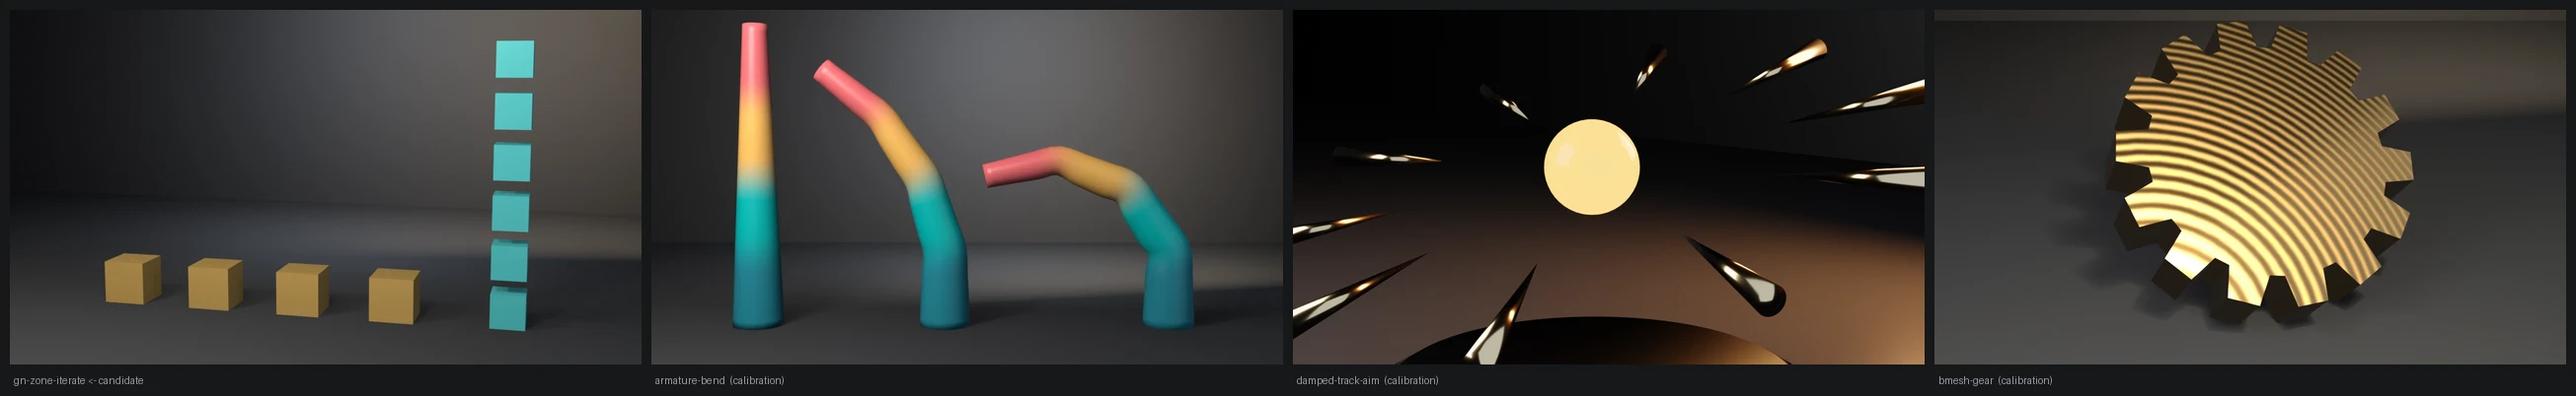
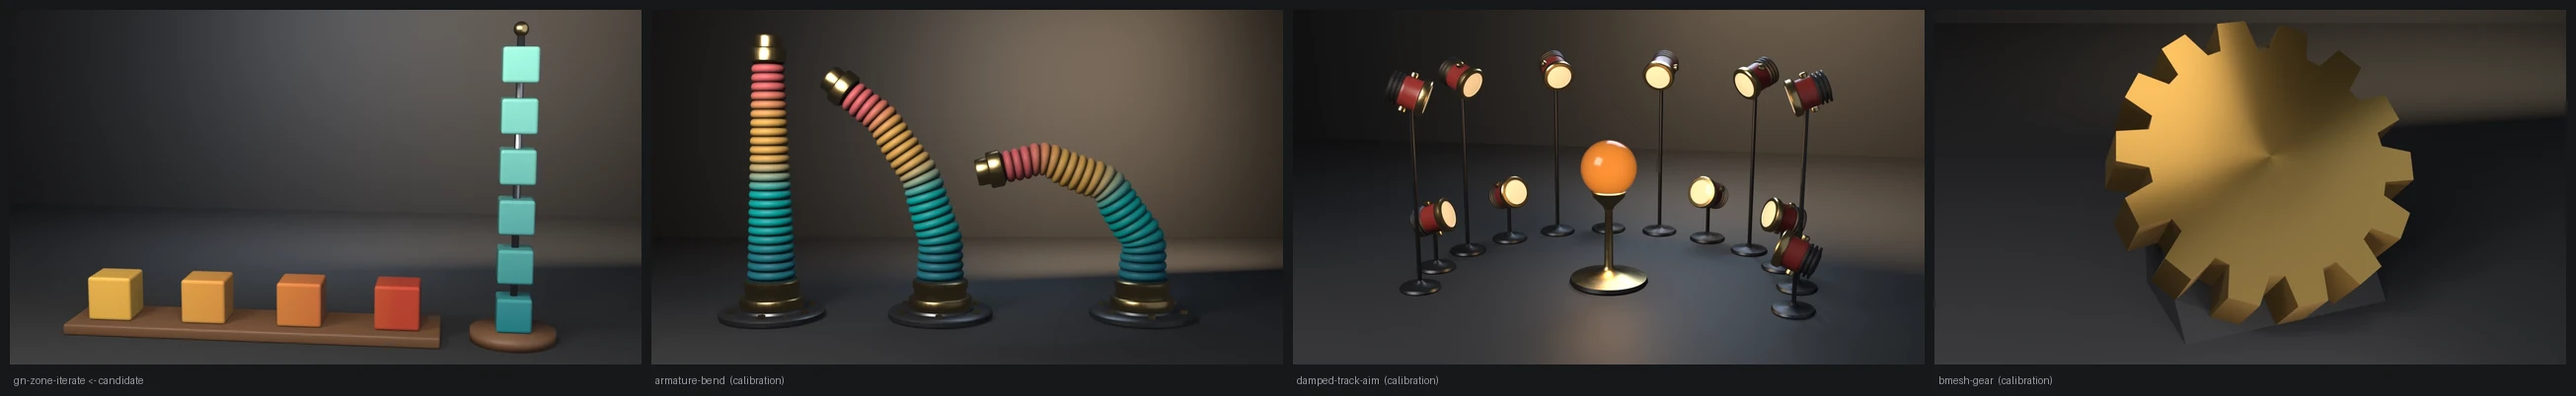
fix(examples): redesign gn-zone-iterate as graded blocks on a plinth and a spindle
The still showed flat brass and cyan cubes hanging in a dark room: four in a
row and six floating in a stack. All presentation now runs after check()
passes on the raw evaluated zones:
- Each zone's blocks are graded along the axis it iterates on, using Object
  space: amber to red along X for Repeat, teal to mint along Z for For Each.
  The colour steps count the iterations.
- A render-only Bevel after the GN modifier chamfers the cubes.
- The Repeat row sits on a walnut plinth. The For Each tower is threaded on a
  steel spindle with a brass finial over a round walnut base, so the 0.18 m
  gaps read as spacing.
- The camera is more frontal and tighter.
The GN trees, the evaluated counts and the checks are unchanged.

Evidence (live runs, local):
- E:\Blender-Developer-Tools\.scratch\blender-5.2.1-windows-x64\blender.exe
  (Blender 5.2.1 LTS): check exit 0, repeat 32/24 and foreach 48/36 verts/
  faces, x_centers [0, 1.2, 2.4, 3.6], z_centers [0.21 .. 3.21],
  pairing=ok. --no-offset exits 4 (X-centers [32,0,0,0]). --foreach-main
  exits 5 (evaluated 6/0 against 48/36).
- E:\Blender-Developer-Tools\.scratch\blender-4.5.11-windows-x64\blender.exe
  (Blender 4.5.11 LTS): check and --output both exit 0 with the same numbers.
- Framing: fill x=0.716 y=0.806, margins l=0.084 r=0.134 b=0.033 t=0.033.
- Contact sheet: candidate luma 0.263 / stage 0.227 / warmth +0.243 /
  sat 0.148, against armature-bend 0.243/0.192/-0.144/0.237, damped-track-aim
[…]

diff --git a/examples/gn-zone-iterate/gn_zone_iterate.py b/examples/gn-zone-iterate/gn_zone_iterate.py
@@ -356,26 +356,105 @@ def render_still(rpt, fee, path, engine):
     # Rim from behind so the cube silhouettes separate from the dark wall.
     light("Rim", (-1.0, 4.5, 4.5), 260.0, 4.0, (0.70, 0.82, 1.0), (-50, 0, 180))
 
-    # Presentation only: the check never reads materials. 0.85 metallic in a
-    # near-black world reflected near-black, and the brass read as mustard
-    # card. Less metal and a warmer, brighter base let the key shape it.
-    for ob, rough, metal in ((rpt, 0.42, 0.55), (fee, 0.38, 0.10)):
+    # Presentation only — everything below runs after check() has passed on
+    # the raw evaluated zones. Each zone's blocks are graded along the axis the
+    # zone iterates on (Object-space X for Repeat, Z for For Each), so the
+    # colour steps count the iterations; a small render-only bevel after the
+    # GN modifier turns the cubes into machined blocks.
+    grades = {
+        rpt: ("X", REPEAT_N * REPEAT_STEP,
+              ((0.95, 0.55, 0.10), (0.62, 0.07, 0.04)), 0.30, 0.0),
+        fee: ("Z", (FOREACH_P - 1) * FOREACH_STEP + FOREACH_SIZE,
+              ((0.02, 0.30, 0.36), (0.30, 0.85, 0.72)), 0.28, 0.0),
+    }
+    for ob, (axis, span, (c0, c1), rough, metal) in grades.items():
         for mat in _node_materials(ob):
-            bsdf = mat.node_tree.nodes.get("Principled BSDF")
-            if bsdf is not None:
-                bsdf.inputs["Metallic"].default_value = metal
-                bsdf.inputs["Roughness"].default_value = rough
+            nt = mat.node_tree
+            bsdf = nt.nodes.get("Principled BSDF")
+            bsdf.inputs["Metallic"].default_value = metal
+            bsdf.inputs["Roughness"].default_value = rough
+            if "Coat Weight" in bsdf.inputs:
+                bsdf.inputs["Coat Weight"].default_value = 0.5
+            coord = nt.nodes.new("ShaderNodeTexCoord")
+            sep = nt.nodes.new("ShaderNodeSeparateXYZ")
+            nt.links.new(coord.outputs["Object"], sep.inputs["Vector"])
+            norm = nt.nodes.new("ShaderNodeMapRange")
+            norm.inputs["From Min"].default_value = 0.0
+            norm.inputs["From Max"].default_value = span
+            nt.links.new(sep.outputs[axis], norm.inputs["Value"])
+            ramp = nt.nodes.new("ShaderNodeValToRGB")
+            ramp.color_ramp.elements[0].color = (*c0, 1.0)
+            ramp.color_ramp.elements[1].color = (*c1, 1.0)
+            nt.links.new(norm.outputs["Result"], ramp.inputs["Fac"])
+            nt.links.new(ramp.outputs["Color"], bsdf.inputs["Base Color"])
+        bev = ob.modifiers.new("Chamfer", "BEVEL")
+        bev.width = 0.035
+        bev.segments = 3
+        bev.limit_method = "NONE"
+
+    walnut = principled("Walnut", (0.19, 0.09, 0.045, 1.0), 0.0, 0.5)
+    steel = principled("Steel", (0.55, 0.56, 0.58, 1.0), 1.0, 0.3)
+    brass = principled("Finial", (0.88, 0.62, 0.26, 1.0), 1.0, 0.28)
+
+    def solid(name, build, mat, loc):
+        me = bpy.data.meshes.new(name)
+        bm = bmesh.new()
+        try:
+            build(bm)
+            for f in bm.faces:
+                f.smooth = True
+            bm.to_mesh(me)
+        finally:
+            bm.free()
+        me.materials.append(mat)
+        ob = bpy.data.objects.new(name, me)
+        ob.location = loc
+        scene.collection.objects.link(ob)
+        return ob
+
+    def box(sx, sy, sz):
+        def b(bm):
+            bmesh.ops.create_cube(bm, size=1.0)
+            bmesh.ops.scale(bm, vec=(sx, sy, sz), verts=bm.verts)
+            bmesh.ops.bevel(bm, geom=list(bm.edges), offset=0.025, segments=3,
+                            profile=0.5, affect="EDGES", clamp_overlap=True)
+        return b
+
+    def cyl(r, h, segs=48):
+        def b(bm):
+            bmesh.ops.create_cone(bm, cap_ends=True, segments=segs, radius1=r, radius2=r, depth=h)
+        return b
+
+    # Stands: the blocks are lifted onto them (render only, after the check).
+    base_h = 0.14
+    for ob in (rpt, fee):
+        ob.location.z = base_h
+    x0 = rpt.location.x - REPEAT_SIZE / 2 - 0.25
+    x1 = rpt.location.x + REPEAT_N * REPEAT_STEP + REPEAT_SIZE / 2 + 0.25
+    row_base = solid("RowPlinth", box(x1 - x0, 1.0, base_h), walnut,
+                     ((x0 + x1) / 2, 0.0, base_h / 2))
+    tower_top = base_h + (FOREACH_P - 1) * FOREACH_STEP + FOREACH_SIZE
+    tower_base = solid("TowerBase", cyl(0.52, base_h), walnut,
+                       (fee.location.x, 0.0, base_h / 2))
+    # a steel spindle threads the For Each blocks, so the gaps between them
+    # read as spacing on a rod, not blocks floating
+    spindle = solid("Spindle", cyl(0.045, tower_top - base_h + 0.18, 24), steel,
+                    (fee.location.x, 0.0, base_h + (tower_top - base_h + 0.18) / 2))
+    finial = solid("Finial", lambda bm: bmesh.ops.create_uvsphere(
+        bm, u_segments=24, v_segments=12, radius=0.09), brass,
+        (fee.location.x, 0.0, tower_top + 0.2))
+    props = [row_base, tower_base, spindle, finial]
 
     # Centred on the pair and more frontal: from (6.6, -9.3) the repeat row
     # foreshortened into a diagonal and the tower hugged the right edge.
     aim = bpy.data.objects.new("Aim", None)
-    aim.location = (-0.10, 0.0, 1.62)
+    aim.location = (-0.10, 0.0, 1.85)
     aim.hide_render = True
     scene.collection.objects.link(aim)
     cam_data = bpy.data.cameras.new("Cam")
-    cam_data.lens = 50.0
+    cam_data.lens = 56.0
     cam = bpy.data.objects.new("Cam", cam_data)
-    cam.location = (2.7, -10.6, 3.1)
+    cam.location = (1.4, -11.8, 3.6)
     scene.collection.objects.link(cam)
     scene.camera = cam
     track = cam.constraints.new("TRACK_TO")
@@ -398,8 +477,9 @@ def render_still(rpt, fee, path, engine):
     scene.view_settings.view_transform = "Standard"
 
     hero = [rpt, fee]
+    bpy.context.view_layer.update()
     fcode = gallery_framing.check_framing(
-        scene, cam, hero=hero, elements=hero, stage=[floor, wall],
+        scene, cam, hero=hero, elements=hero + props, stage=[floor, wall],
     )
     if fcode:
         return fcode

diff --git a/examples/gn-zone-iterate/README.md b/examples/gn-zone-iterate/README.md
@@ -41,6 +41,15 @@ blender --background --python gn_zone_iterate.py -- --output zones.png
 The `--output` render path measures framing via `examples/gallery_framing.py`
 (exit 10 on violation).
 
+**Staging.** Everything presentational runs after `check()` has passed on the raw
+evaluated zones. Each zone's blocks are graded along the axis the zone iterates on,
+using Object-space coordinates (amber to red along X for the four Repeat blocks, deep
+teal to mint along Z for the six For Each blocks), so the colour steps count the
+iterations. A render-only Bevel modifier after the GN modifier chamfers the cubes into
+machined blocks. The Repeat row sits on a walnut plinth; the For Each tower is threaded
+on a steel spindle over a round walnut base, so its 0.18 m gaps read as spacing on a
+rod rather than floating cubes.
+
 ## Exit codes
 
 Per-script sequential checks. `9` is a valid check code; there is no rule

diff --git a/README.md b/README.md
@@ -605,7 +605,7 @@ turns 1 / 2 / 3 m into 7 / 17 / 27 treads. Asserts readback and evaluated Z-exte
 </tr>
 <tr>
 <td width="46%" valign="middle">
-<a href="examples/gn-zone-iterate/"><img src="examples/gn-zone-iterate/preview.webp" alt="GN zone iterate: four brass cubes in a row (Repeat Zone) beside a tower of six teal cubes (For Each Element) on a dark studio floor, proving pair_with_output actually iterates" /></a>
+<a href="examples/gn-zone-iterate/"><img src="examples/gn-zone-iterate/preview.webp" alt="GN zone iterate: four amber-to-red blocks on a walnut plinth (Repeat Zone) beside a spindle of six teal-to-mint blocks (For Each Element) on a dark studio floor, proving pair_with_output actually iterates" /></a>
 </td>
 <td valign="middle">
 
